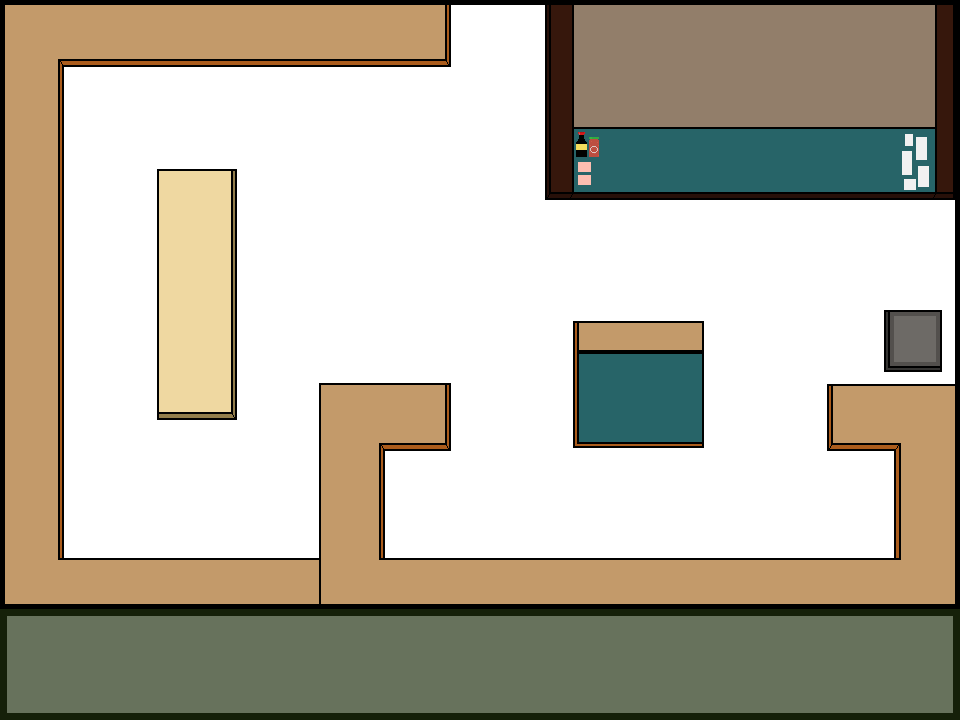
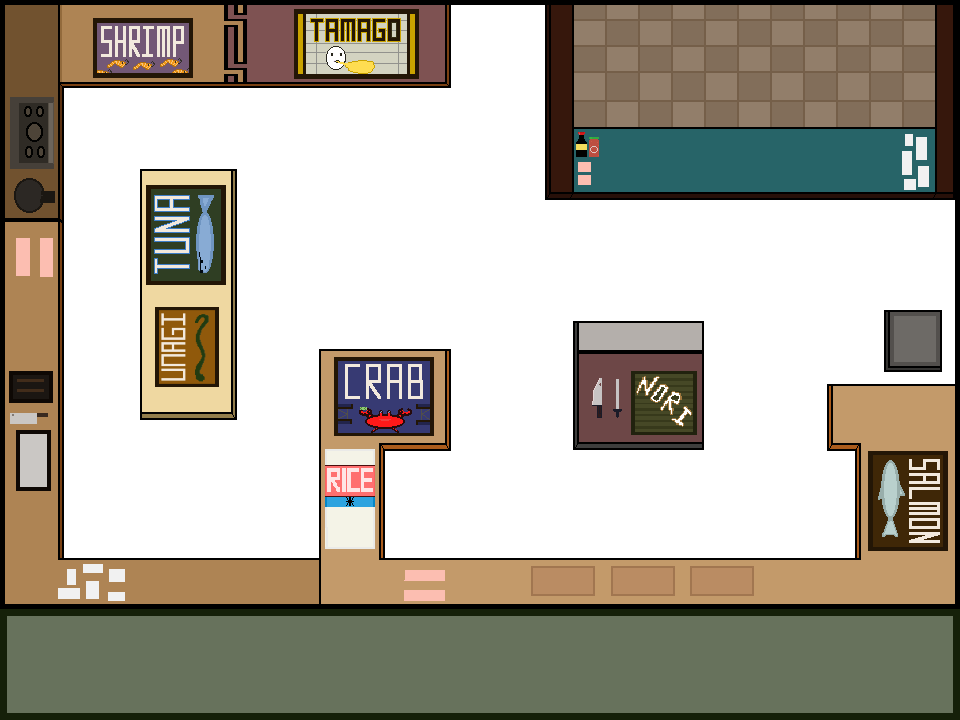
Added three new ingredients. Must fix pickup zones and logic.

diff --git a/gnome_game.py b/gnome_game.py
@@ -16,12 +16,15 @@ title_gnome_x = 880
 title_gnome_y = 135
 start_pos = (200, 330)
 help_pos = (500, 330)
-nori_pos = (162,265)
-rice_pos = (324,450)
-tuna_pos = (410,500)
-salmon_pos = (806,455)
-unagi_pos = (370,70)
-plate_pos = (168,160)
+nori_pos = (616, 368)
+rice_pos = (260, 450)
+crab_pos = (290, 311)
+shrimp_pos = (62,10)
+tamago_pos = (267,0)
+tuna_pos = (90,180)
+salmon_pos = (776,455)
+unagi_pos = (80,300)
+plate_pos = (516,524)
 plate_offset = (168,174)
 trashcan_pos = (883,310)
 counter_pos = (572,127)
@@ -135,7 +138,13 @@ class Gnome(pygame.sprite.Sprite):
             elif action == "add_salmon":
                 gnome_spritesheet = pygame.image.load("art_assets/gnome/gnomesheet_salmon.png").convert_alpha()
             elif action == "add_unagi":
-                gnome_spritesheet = pygame.image.load("art_assets/gnome/gnomesheet_unagi.png").convert_alpha() 
+                gnome_spritesheet = pygame.image.load("art_assets/gnome/gnomesheet_unagi.png").convert_alpha()
+            elif action == "add_crab":
+                gnome_spritesheet = pygame.image.load("art_assets/gnome/gnomesheet_crab.png").convert_alpha() 
+            elif action == "add_shrimp":
+                gnome_spritesheet = pygame.image.load("art_assets/gnome/gnomesheet_shrimp.png").convert_alpha() 
+            elif action == "add_tamago":
+                gnome_spritesheet = pygame.image.load("art_assets/gnome/gnomesheet_tamago.png").convert_alpha() 
         elif action == "put_down":
             gnome_spritesheet = pygame.image.load("art_assets/gnome/gnomesheet.png").convert_alpha()
             self.plate = None
@@ -147,8 +156,7 @@ class Gnome(pygame.sprite.Sprite):
             for x in range(0,4):
                 self.images.append(gnome_sheet.get_image(x, 96, 96, BLACK, scale = 1))
             self.image = self.images[self.frame]
-            
-            
+
 class Storage():
     """
     Class for the storage boxes that hold ingredients.
@@ -157,36 +165,33 @@ class Storage():
         self.type = type
         self.image = None
         if type == "unagi":
-            self.image = pygame.image.load("art_assets/storage/unagi_box.png").convert_alpha()
-            self.rect = self.image.get_rect(topleft = unagi_pos)
-            self.image = pygame.transform.smoothscale(self.image,(self.rect.w * 0.7, self.rect.h * 0.7))
+            self.image = pygame.image.load("art_assets/storage/unagi_zone.png").convert_alpha()
             self.rect = self.image.get_rect(topleft = unagi_pos)
         elif type == "salmon":
-            self.image = pygame.image.load("art_assets/storage/salmon_box.png").convert_alpha()
+            self.image = pygame.image.load("art_assets/storage/salmon_zone.png").convert_alpha()
             self.rect = self.image.get_rect(topleft = salmon_pos)
-            self.image = pygame.transform.rotate(self.image, 270)
-            self.rect = self.image.get_rect(topleft = salmon_pos)
+        elif type == "crab":
+            self.image = pygame.image.load("art_assets/storage/crab_zone.png").convert_alpha()
+            self.rect = self.image.get_rect(topleft = crab_pos)
+        elif type == "shrimp":
+            self.image = pygame.image.load("art_assets/storage/shrimp_zone.png").convert_alpha()
+            self.rect = self.image.get_rect(topleft = shrimp_pos)
+        elif type == "tamago":
+            self.image = pygame.image.load("art_assets/storage/tamago_zone.png").convert_alpha()
+            self.rect = self.image.get_rect(topleft = tamago_pos)
         elif type == "tuna":
-            self.image = pygame.image.load("art_assets/storage/tuna_box.png").convert_alpha()
-            self.rect = self.image.get_rect(topleft = tuna_pos)
-            self.image = pygame.transform.smoothscale(self.image,(self.rect.w * 0.7, self.rect.h * 0.7))
+            self.image = pygame.image.load("art_assets/storage/tuna_zone.png").convert_alpha()
             self.rect = self.image.get_rect(topleft = tuna_pos)
         elif type == "rice":
-            self.image = pygame.image.load("art_assets/storage/rice_box.png").convert_alpha()
-            self.rect = self.image.get_rect(topleft = rice_pos)
-            self.image = pygame.transform.smoothscale(self.image,(self.rect.w * 0.6, self.rect.h * 0.6))
+            self.image = pygame.image.load("art_assets/storage/rice_zone.png").convert_alpha()
             self.rect = self.image.get_rect(topleft = rice_pos)
         elif type == "nori":
-            self.image = pygame.image.load("art_assets/storage/nori_box.png").convert_alpha()
-            self.rect = self.image.get_rect(topleft = nori_pos)
-            self.image = pygame.transform.smoothscale(self.image,(self.rect.w, self.rect.h))
-            self.image = pygame.transform.smoothscale(self.image,(self.rect.w * 0.8, self.rect.h * 0.8))
+            self.image = pygame.image.load("art_assets/storage/nori_zone.png").convert_alpha()
             self.rect = self.image.get_rect(topleft = nori_pos)
         elif type == "plate":
-            self.image = pygame.image.load("art_assets/storage/plate_box.png").convert_alpha()
+            self.image = pygame.image.load("art_assets/storage/plate_zone.png").convert_alpha()
             self.rect = self.image.get_rect(topleft = plate_pos)
-            self.image = pygame.transform.smoothscale(self.image,(self.rect.w * 0.8, self.rect.h))
-    
+
     
 class Plate():
     """
@@ -211,6 +216,12 @@ class Plate():
                 self.contains.append("salmon")
             elif item == "unagi":
                 self.contains.append("unagi")
+            elif item == "crab":
+                self.contains.append("crab")
+            elif item == "shrimp":
+                self.contains.append("shrimp")
+            elif item == "tamago":
+                self.contains.append("tamago")
     
     
 class Customer():
@@ -226,6 +237,12 @@ class Customer():
             placard_text = pygame.image.load("art_assets/text/profile_text_salmon.png").convert_alpha()
         elif request == "unagi":
             placard_text = pygame.image.load("art_assets/text/profile_text_unagi.png").convert_alpha()
+        elif request == "crab":
+            placard_text = pygame.image.load("art_assets/text/profile_text_crab.png").convert_alpha()
+        elif request == "shrimp":
+            placard_text = pygame.image.load("art_assets/text/profile_text_shrimp.png").convert_alpha()
+        elif request == "tamago":
+            placard_text = pygame.image.load("art_assets/text/profile_text_tamago.png").convert_alpha()
         self.placard_text = placard_text
         
         if id == "horace":
@@ -272,7 +289,7 @@ class Customer_Group():
         self.attendance = {}
         self.arrival_order = []
         self.absent_names = ["horace", "jeb", "jordan", "mickey", "pickles", "tom"]
-        self.sushi_options = ["salmon", "tuna", "unagi"]
+        self.sushi_options = ["salmon", "tuna", "unagi", "crab", "shrimp", "tamago"]
         self.owed_payment = 0
         
     def add_order(self):
@@ -384,29 +401,41 @@ class Level():
                 elif event.key == pygame.K_SPACE:
                     complete = False
                     dominant_sound = True
-                    if pygame.Rect.colliderect(gnomelius.rect,plate_box.rect):
+                    if pygame.Rect.colliderect(gnomelius.rect,plate_zone.rect):
                         gnomelius.plate = Plate()
                         gnomelius.update_plate("pick_up")
                         complete = True
                     elif gnomelius.plate != None:
-                        if pygame.Rect.colliderect(gnomelius.rect,nori_box.rect):
+                        if pygame.Rect.colliderect(gnomelius.rect,nori_zone.rect):
                             gnomelius.update_plate("add_nori")
                             gnomelius.plate.add_item("nori")
                             complete = True
-                        elif pygame.Rect.colliderect(gnomelius.rect,rice_box.rect):
+                        elif pygame.Rect.colliderect(gnomelius.rect,rice_zone.rect):
                             gnomelius.update_plate("add_rice")
                             gnomelius.plate.add_item("rice")
                             complete = True
-                        elif pygame.Rect.colliderect(gnomelius.rect,tuna_box.rect):
+                        elif pygame.Rect.colliderect(gnomelius.rect,tuna_zone.rect):
                             gnomelius.update_plate("add_tuna")
                             gnomelius.plate.add_item("tuna")
                             complete = True
-                        elif pygame.Rect.colliderect(gnomelius.rect,salmon_box.rect):
+                        elif pygame.Rect.colliderect(gnomelius.rect,salmon_zone.rect):
                             gnomelius.update_plate("add_salmon")
                             gnomelius.plate.add_item("salmon")
                             complete = True
-                        elif pygame.Rect.colliderect(gnomelius.rect,unagi_box.rect):
+                        elif pygame.Rect.colliderect(gnomelius.rect,unagi_zone.rect):
                             gnomelius.update_plate("add_unagi")
+                            gnomelius.plate.add_item("unagi")
+                            complete = True
+                        elif pygame.Rect.colliderect(gnomelius.rect,crab_zone.rect):
+                            gnomelius.update_plate("add_crab")
+                            gnomelius.plate.add_item("unagi")
+                            complete = True
+                        elif pygame.Rect.colliderect(gnomelius.rect,shrimp_zone.rect):
+                            gnomelius.update_plate("add_shrimp")
+                            gnomelius.plate.add_item("unagi")
+                            complete = True
+                        elif pygame.Rect.colliderect(gnomelius.rect,tamago_zone.rect):
+                            gnomelius.update_plate("add_tamago")
                             gnomelius.plate.add_item("unagi")
                             complete = True
                         elif pygame.Rect.colliderect(gnomelius.rect,trashcan_rect):
@@ -433,12 +462,15 @@ class Level():
             
         screen.fill(BACKGROUND_COLOR)
         screen.blit(kitchen_base, origin)
-        screen.blit(nori_box.image, nori_pos)
-        screen.blit(rice_box.image, rice_pos)
-        screen.blit(tuna_box.image, tuna_pos)
-        screen.blit(salmon_box.image, salmon_pos)
-        screen.blit(unagi_box.image, unagi_pos)
-        screen.blit(plate_box.image, plate_offset)
+        screen.blit(nori_zone.image, nori_pos)
+        screen.blit(rice_zone.image, rice_pos)
+        screen.blit(tuna_zone.image, tuna_pos)
+        screen.blit(salmon_zone.image, salmon_pos)
+        screen.blit(unagi_zone.image, unagi_pos)
+        screen.blit(crab_zone.image, plate_offset)
+        screen.blit(shrimp_zone.image, plate_offset)
+        screen.blit(tamago_zone.image, plate_offset)
+        screen.blit(plate_zone.image, plate_offset)
         screen.blit(trashcan, trashcan_pos)
         screen.blit(counter, counter_pos)
         screen.blit(gnomelius.placard_profile, placard_profile_pos)
@@ -600,12 +632,15 @@ gnome_placard_rect = gnome_placard.get_rect(topleft = gnome_placard_pos)
 customers = Customer_Group()
 
 # Create the ingredient boxes.
-nori_box = Storage("nori")
-rice_box = Storage("rice")
-tuna_box = Storage("tuna")
-salmon_box = Storage("salmon")
-unagi_box = Storage("unagi")
-plate_box = Storage("plate")
+nori_zone = Storage("nori")
+rice_zone = Storage("rice")
+tuna_zone = Storage("tuna")
+salmon_zone = Storage("salmon")
+unagi_zone = Storage("unagi")
+crab_zone = Storage("crab")
+shrimp_zone = Storage("shrimp")
+tamago_zone = Storage("tamago")
+plate_zone = Storage("plate")
 
 pygame.mixer.music.load("sound_assets/blue_bird.wav")
 #pygame.mixer.music.play()
